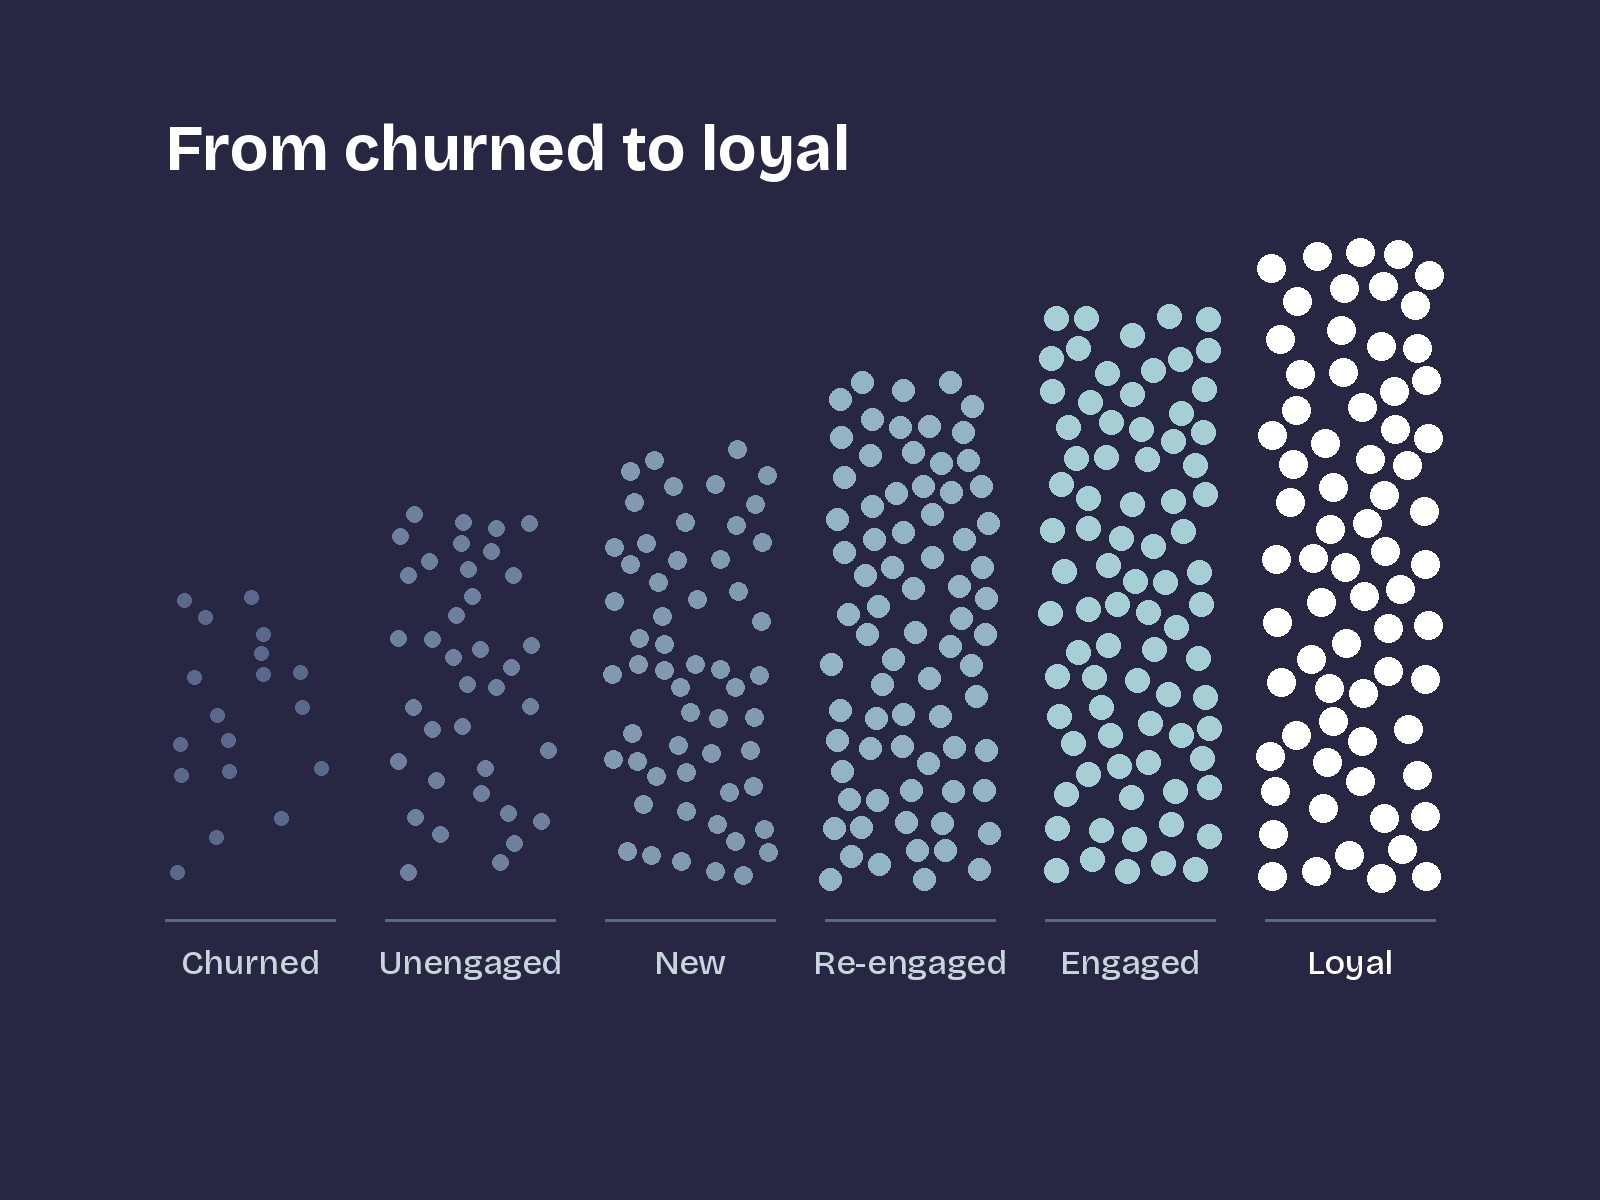
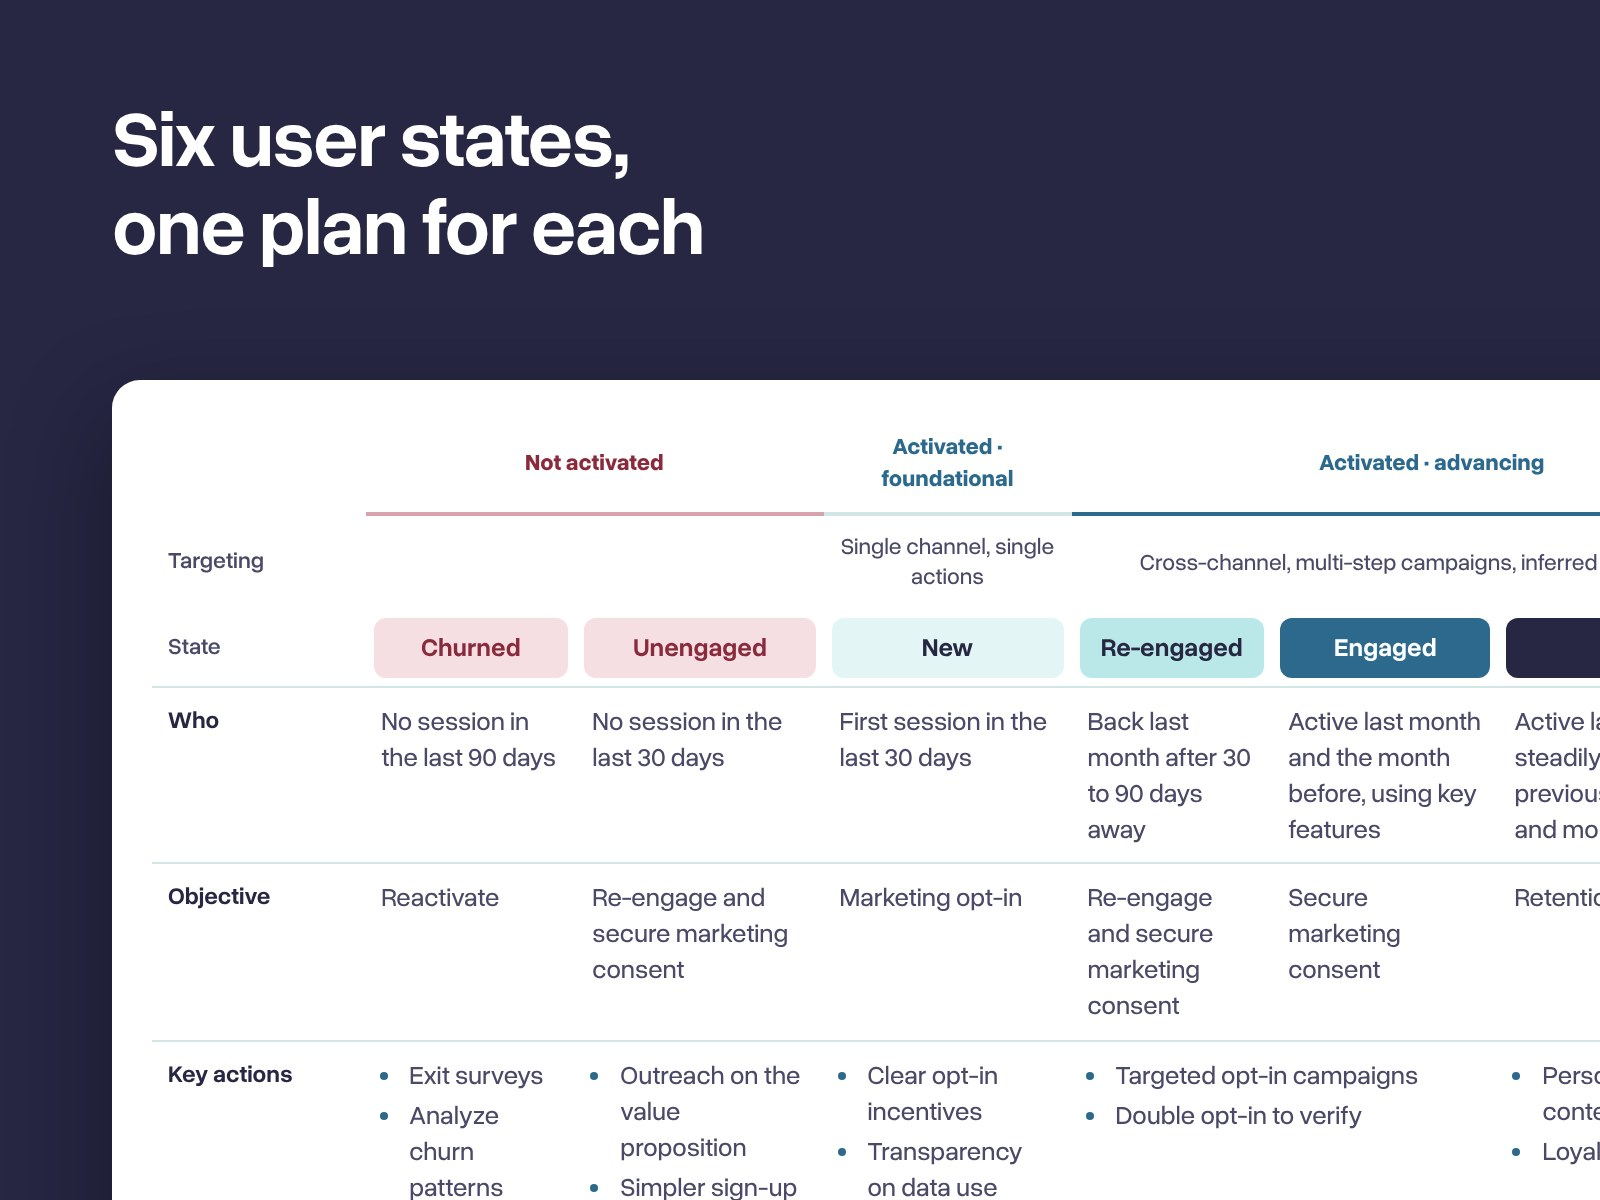
Covers: user-state table snip; 4x coverage chart for PIM case
Claude-Session: https://claude.ai/code/session_0145q5vveUtfyUejPp13cBs1

diff --git a/src/content/projects.ts b/src/content/projects.ts
@@ -151,11 +151,11 @@ const workCovers: Record<string, ProjectCard["image"]> = {
   },
   "app-user-states": {
     src: appUserStates,
-    alt: "Six columns of dots, sparse for churned users and dense for loyal users",
+    alt: "The HomeID app user-state framework as a table: states from churned to loyal, with who they are, the objective and key actions",
   },
   "product-coverage-pim": {
     src: productCoverage,
-    alt: "A grid of product tiles: a few covered before, most added from one product source",
+    alt: "4\u00d7 products ready to register and support within two weeks of release: a short bar before the PIM connection, a bar four times longer after",
   },
   "home-id": {
     src: homeIdLanding,
